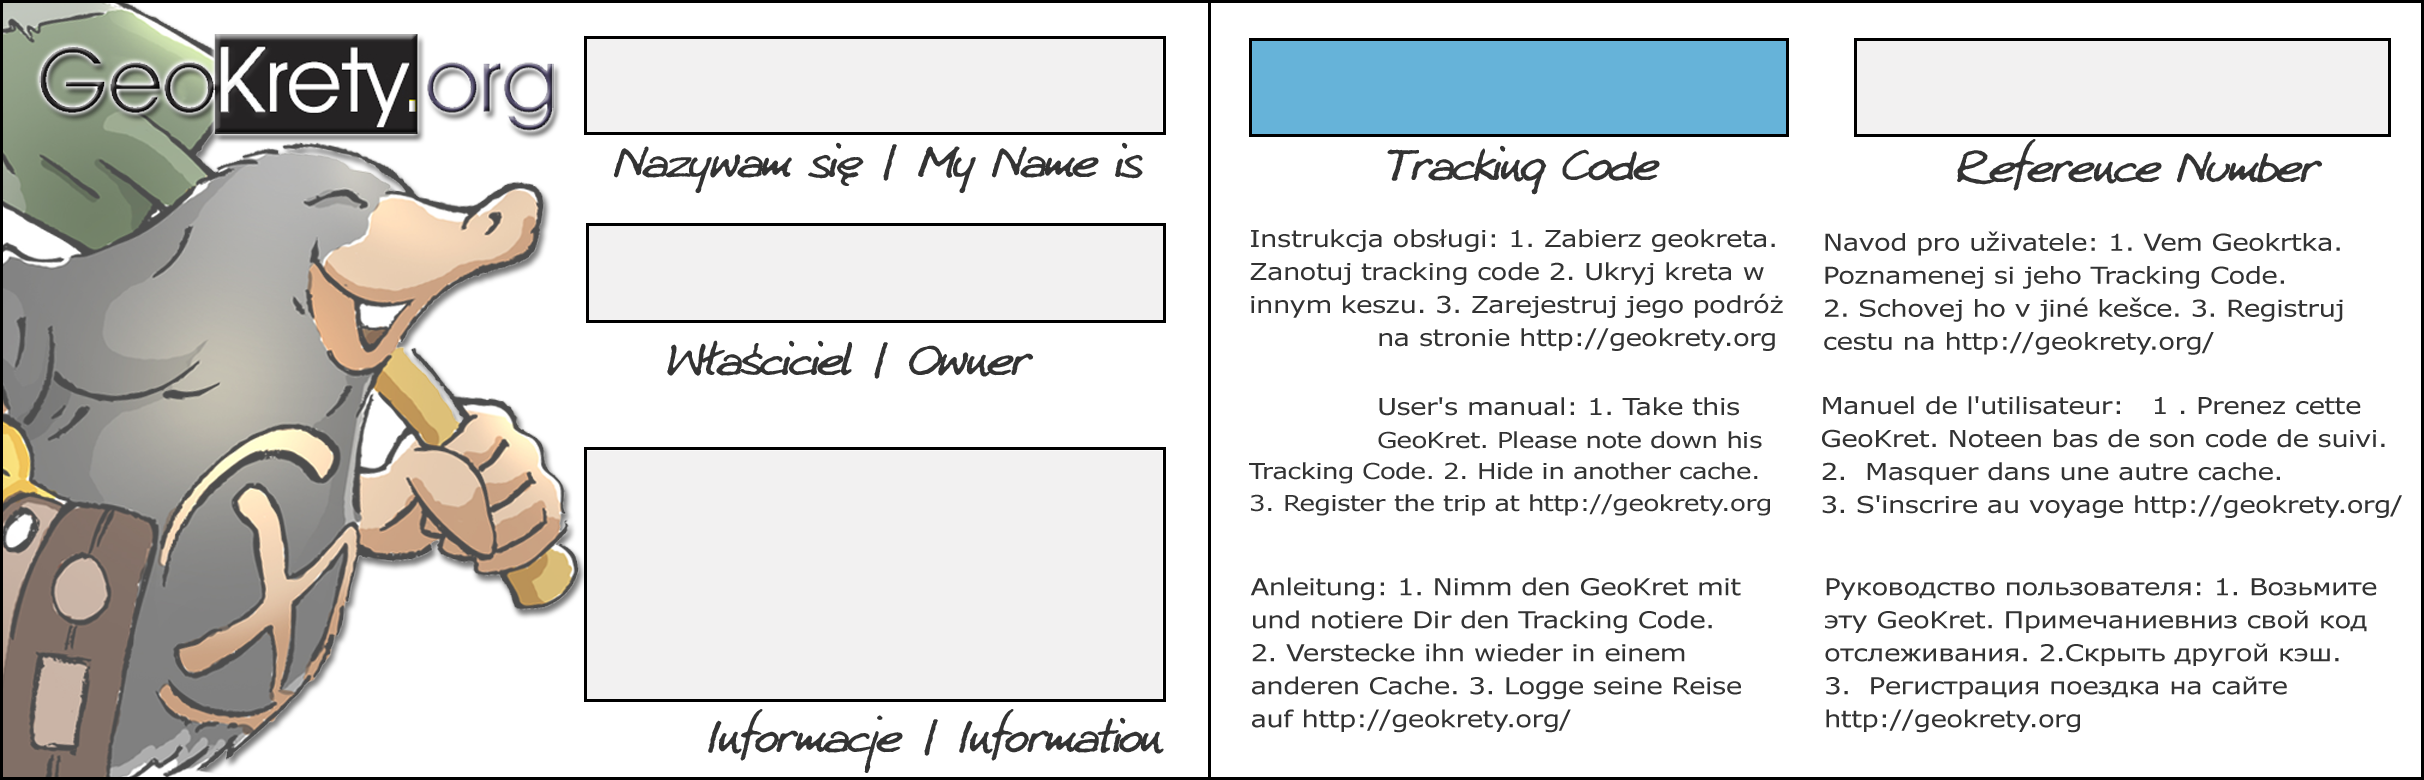
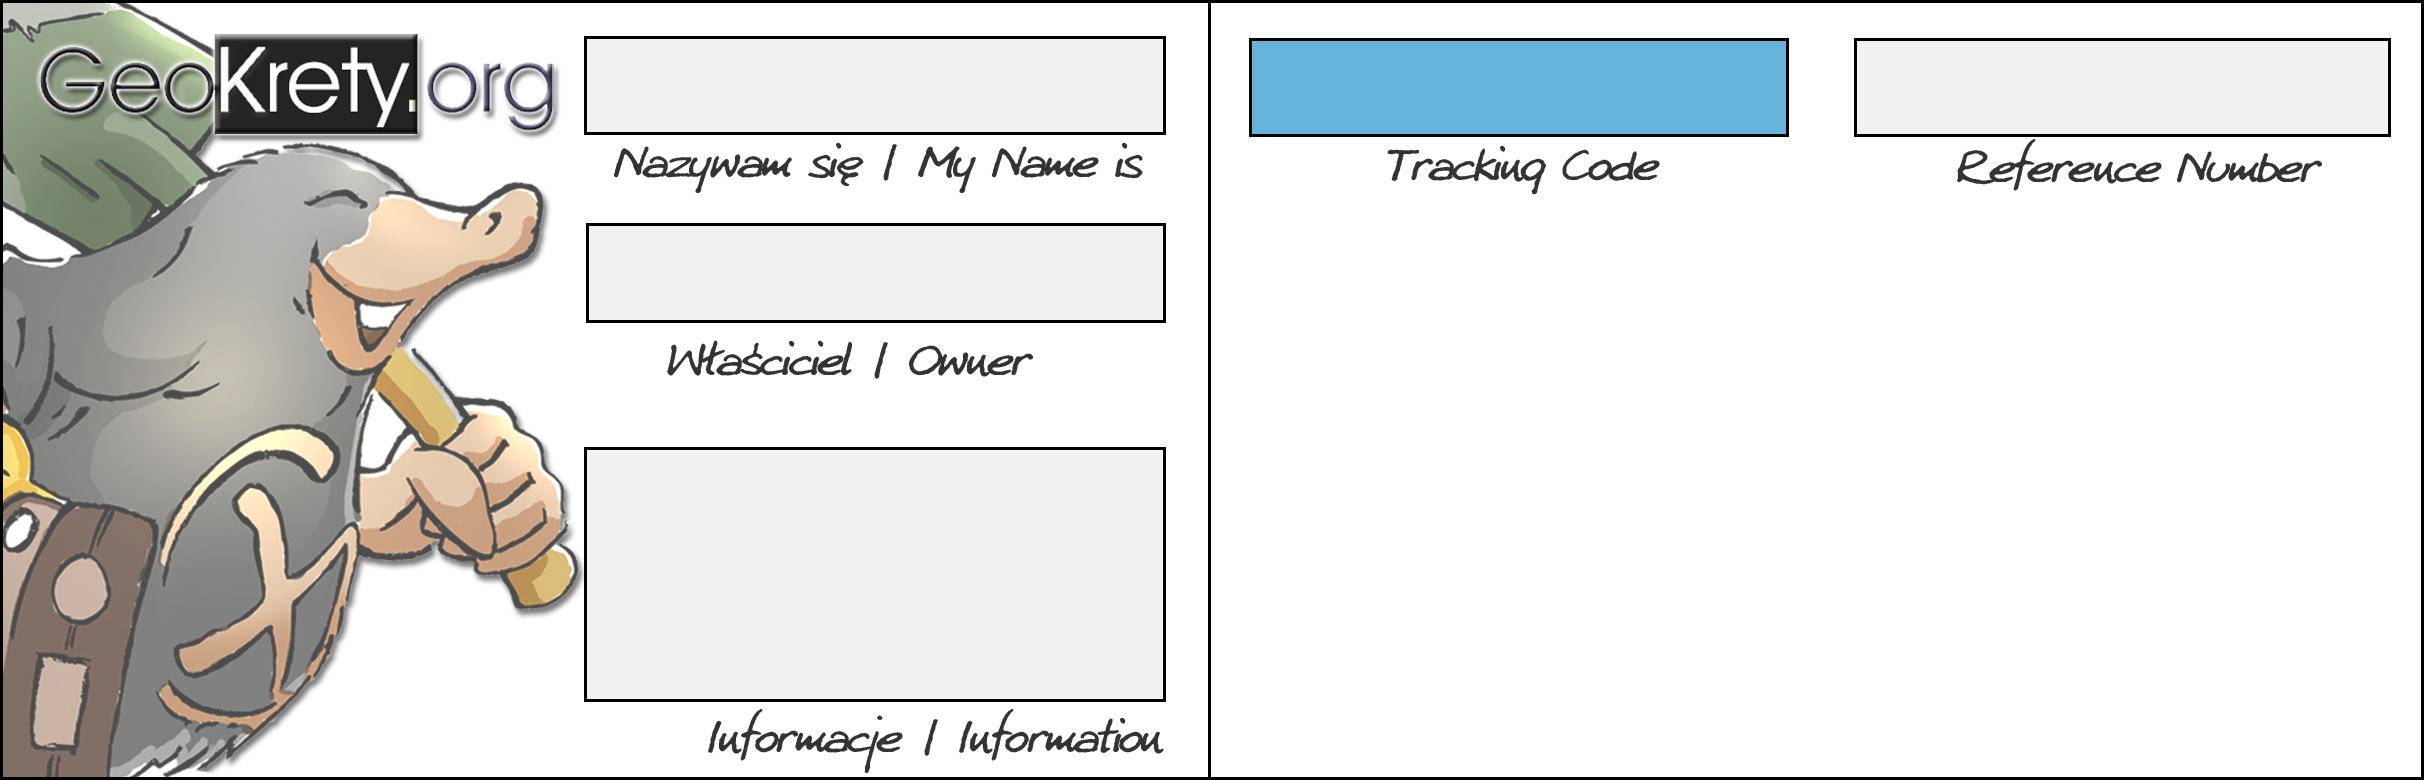
templates: dynamically put user's manual

diff --git a/website/templates/labels/png1/conf.php b/website/templates/labels/png1/conf.php
@@ -1,20 +1,36 @@
 <?php
 
+require_once 'common.php';
+
 $imgname = "$kret_szablon/geokret_label_v1.png";
 $img = imagecreatefrompng($imgname); /* Attempt to open */
 
 $czarny = imagecolorallocate($img, 0, 0, 0);
-$czerwony = imagecolorallocate($img, 240, 0, 0);
-//$font = "../../fonts/cyberbit.ttf";
-//$font = "../fonts/techniczna.ttf";
+
+// Headers are Kuba Reczny 2005 font
 $font = '../fonts/lucida.ttf';
 
 imagettftext($img, 35, 0, 600, 100, $czarny, $font, "$kret_nazwa");
 imagettftext($img, 35, 0, 600, 287, $czarny, $font, $kret_owner);
-imagettftext($img, 25, 0, 600, 500, $czarny, $font, wordwrap(stripcslashes(strip_tags($kret_opis, '<img>')), 35));
+imagettftext($img, 25, 0, 600, 500, $czarny, $font, mb_wordwrap(stripcslashes(strip_tags($kret_opis, '<img>')), 35));
 
 imagettftext($img, 35, 0, 1420, 100, $czarny, $font, $kret_tracking);
 imagettftext($img, 35, 0, 2010, 100, $czarny, $font, $kret_id);
+
+$manual_strings = array(
+    'pl' => 'Instrukcja obsługi: 1. Zabierz geokreta. Zanotuj tracking code 2. Ukryj kreta w innym keszu. 3. Zarejestruj jego podróż na stronie https://geokrety.org',
+    'en' => "User's manual: 1. Take this GeoKret. Please note down his Tracking Code. 2. Hide in another cache. 3. Register the trip at https://geokrety.org",
+    'de' => 'Anleitung: 1. Nimm den GeoKret mit and notiere Dir den Tracking Code. 2. Verstecke ihn wieder in einem anderen Cache. 3. Logge seine Reise auf https://geokrety.org',
+    'cz' => 'Navod pro uživatele: 1. Vem Geokrtka. Poznamenej si jeho Tracking Code. 2. Schovej ho v jiné kešce. 3. Registruj cestu na https://geokrety.org',
+    'fr' => "Manuel de l'utilisateur: 1. Prenez ce GeoKret et notez son code de suivi. 2. Déposez le dans une autre cache. 3. Enregistrez son voyage sur https://geokrety.org",
+    'ru' => 'Руководство пользователя: 1. Возьмите ГеоКрота. Запишите его Tracking Code. 2. Переместите его в другой тайник. 3. Сообщите об этом на https://geokrety.org',
+);
+
+// First manuals column
+imagettftext($img, 18, 0, 1245, 220, $czarny, $font, mb_wordwrap(implode("\n\n", [$manual_strings['pl'], $manual_strings['en'], $manual_strings['de']]), 45));
+
+// Second manuals column
+imagettftext($img, 18, 0, 1800, 220, $czarny, $font, mb_wordwrap(implode("\n\n", [$manual_strings['cz'], $manual_strings['fr'], $manual_strings['ru']]), 45));
 
 header('Content-Type: image/jpeg');
 imagejpeg($img);

diff --git a/website/templates/labels/common.php b/website/templates/labels/common.php
@@ -1,0 +1,36 @@
+<?php
+
+// Default `wordwrap` doesn't work with UTF8 as expected.
+// Here is code from https://stackoverflow.com/a/4988494/1657819
+function mb_wordwrap($str, $width = 75, $break = "\n", $cut = false) {
+    $lines = explode($break, $str);
+    foreach ($lines as &$line) {
+        $line = rtrim($line);
+        if (mb_strlen($line) <= $width) {
+            continue;
+        }
+        $words = explode(' ', $line);
+        $line = '';
+        $actual = '';
+        foreach ($words as $word) {
+            if (mb_strlen($actual.$word) <= $width) {
+                $actual .= $word.' ';
+            } else {
+                if ($actual != '') {
+                    $line .= rtrim($actual).$break;
+                }
+                $actual = $word;
+                if ($cut) {
+                    while (mb_strlen($actual) > $width) {
+                        $line .= mb_substr($actual, 0, $width).$break;
+                        $actual = mb_substr($actual, $width);
+                    }
+                }
+                $actual .= ' ';
+            }
+        }
+        $line .= trim($actual);
+    }
+
+    return implode($break, $lines);
+}
